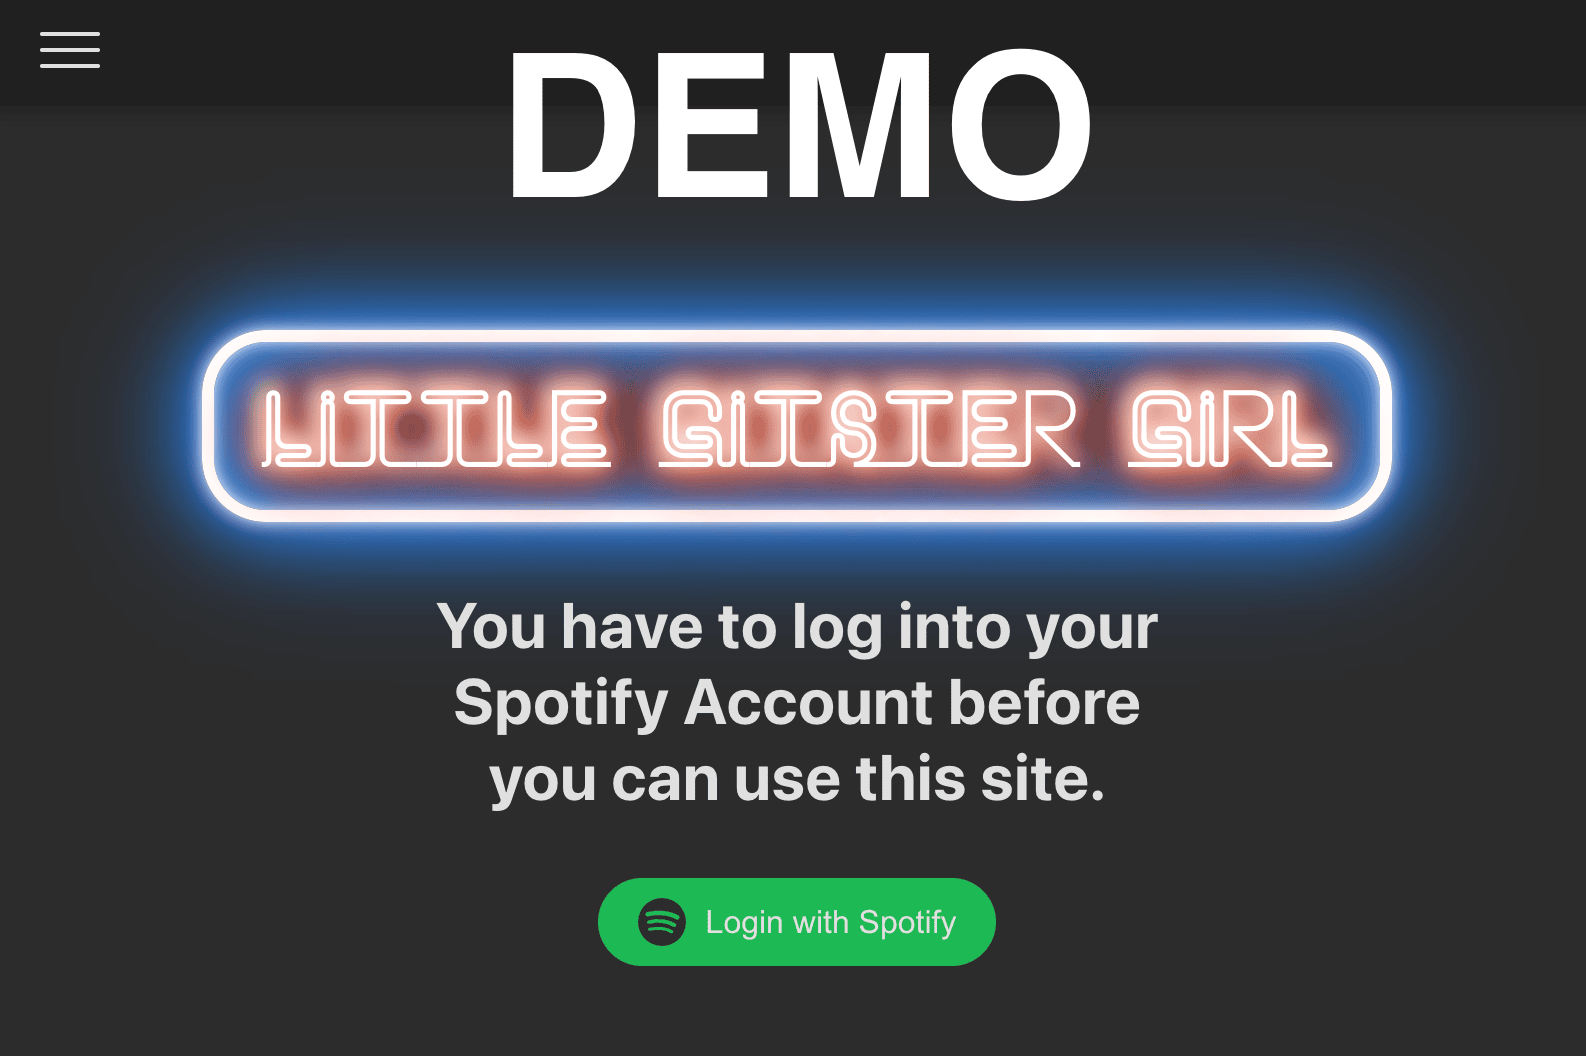
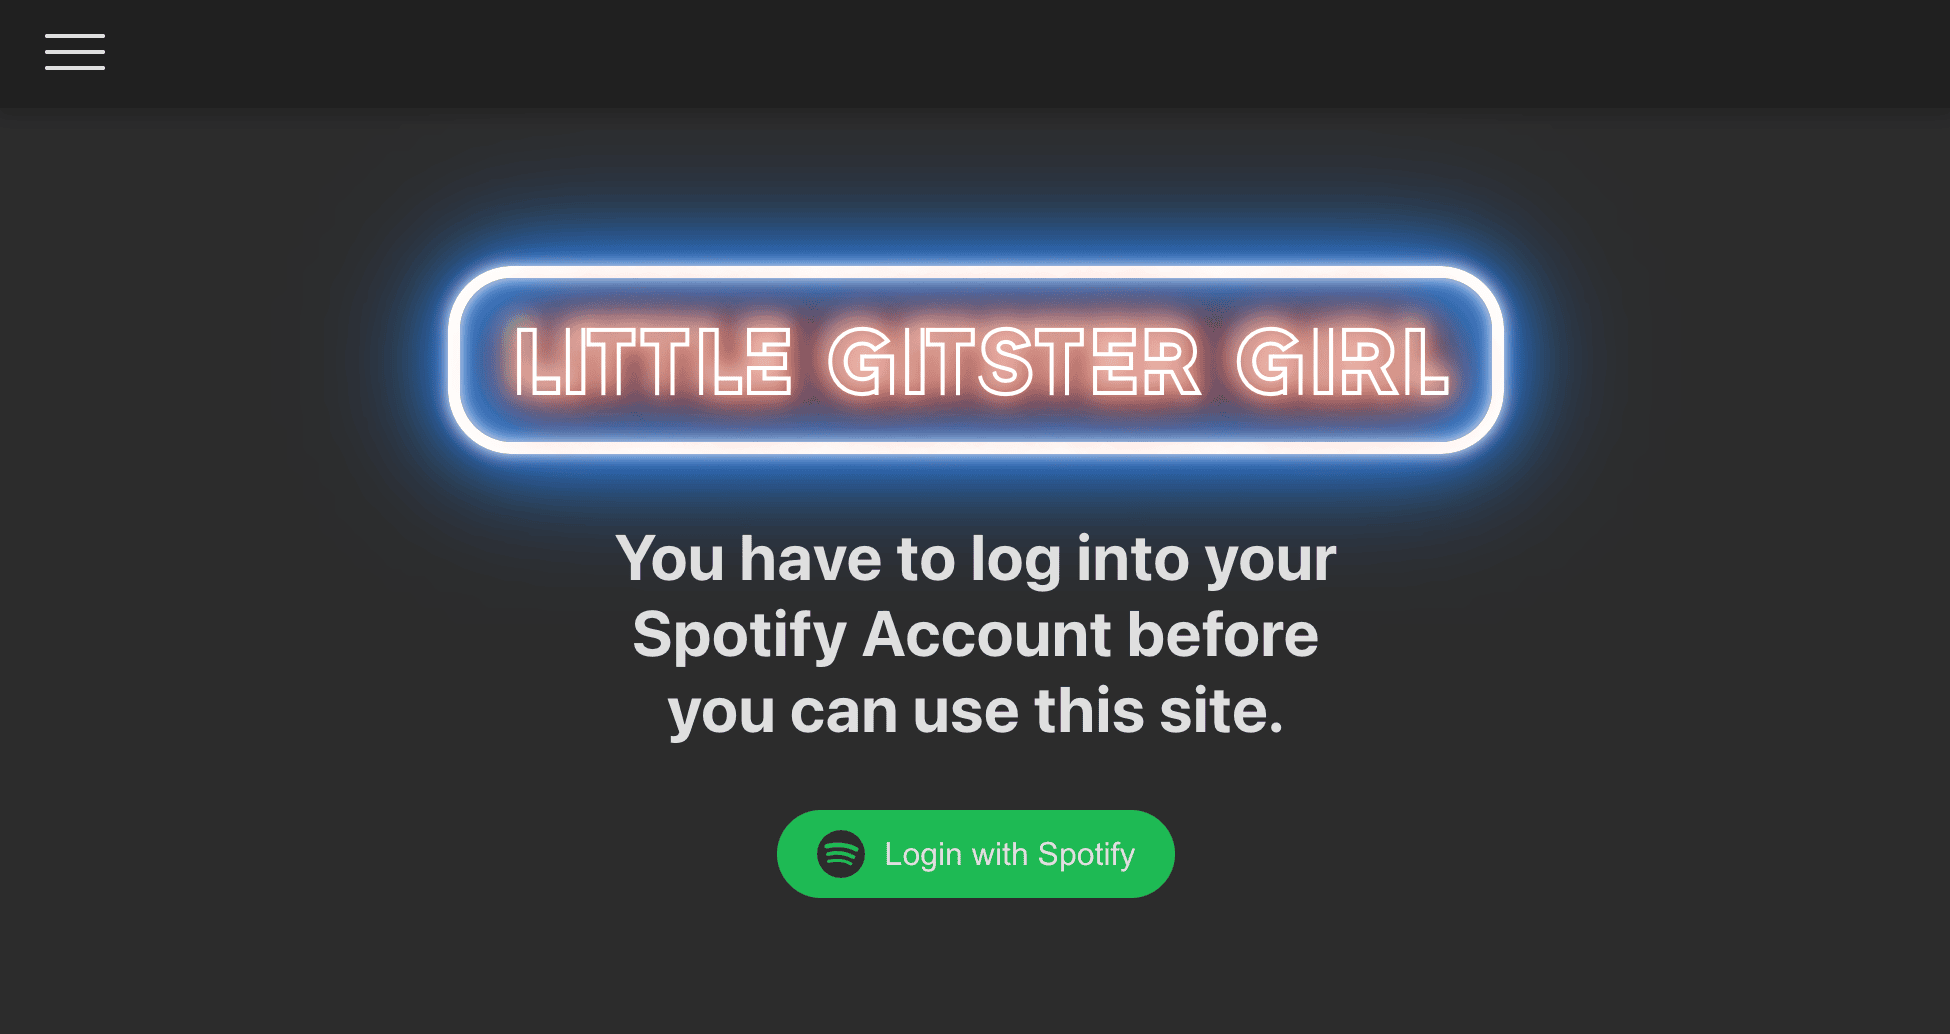
docs: update README with current project structure and fixes
- Update demo screenshot
- Fix broken link with double parentheses
- Update Node.js version requirement to v22 (matches .nvmrc)
- Update project structure to reflect current folders
- Add missing scripts (preview:https) and convert to table format
- Improve installation steps formatting and consistency

diff --git a/README.md b/README.md
@@ -6,7 +6,7 @@
 **Little Gitster Girl** is an engaging and interactive game designed for music lovers and friends who enjoy testing their knowledge of music release dates. Players compete to guess whether a song was released before or after previously played cards, creating a fun and challenging experience. Additionally, this app empowers users to generate personalized playing cards based on their Spotify playlists, enhancing gameplay and fostering music discovery.
 
 [![Screenshot Website](.github/docs/resources/images/demo_screenshot_main_page.png)](https://floriande.github.io/little-gitster-girl/)
-[Click image or here for demo]((https://floriande.github.io/little-gitster-girl/))
+[Click image or here for demo](https://floriande.github.io/little-gitster-girl/)
 
 ## Table of Contents
 - [Little Gitster Girl](#little-gitster-girl)
@@ -21,8 +21,8 @@
     - [Project Structure](#project-structure)
   - [Contributing](#contributing)
     - [Code Style](#code-style)
-   
-## Features 
+
+## Features
 
 -	🎵 **Interactive Gameplay**: A unique guessing game where players arrange songs based on their release dates, promoting a fun way to explore music history.
 -	🎤 **Spotify Integration**: Seamlessly connect to your Spotify account to access your playlists and track information. _**Spotify Premium Required**_. 
@@ -36,31 +36,32 @@
 To run this project locally, follow these steps.
 
 #### Prerequisites
-- **Node.js** (version 14 or above)
+- **Node.js** (version 22 or above recommended, see `.nvmrc`)
 - **npm** or **yarn** package manager
-- **Spotify Developer account** for API access (to get your `client_id`. This project uses the PKCE auth flow of Spotify, so you dont need the client_secret.)
-You also have to add the redirect URI for local development which would be `http://localhost:3000/little-gitster-girl`.
-Spotify tutorial for these steps: https://developer.spotify.com/documentation/web-api/concepts/apps 
+- **Spotify Developer account** for API access (to get your `client_id`. This project uses the PKCE auth flow of Spotify, so you don't need the `client_secret`).
+  You also have to add the redirect URI for local development which would be `http://localhost:3000/little-gitster-girl`.
+  Spotify tutorial for these steps: https://developer.spotify.com/documentation/web-api/concepts/apps
 
 #### Installation
 1. **Clone the repository**
-```bash
-git clone https://github.com/FlorianDe/little-gitster-girl.git
-cd little-gitster-girl
-```
-2.	Install dependencies
-```bash
-npm install
-# or
-yarn install
-```
+   ```bash
+   git clone https://github.com/FlorianDe/little-gitster-girl.git
+   cd little-gitster-girl
+   ```
 
-3.	Set up environment variables
-Copy or rename the .env.example file
-```bash
-cp .env.example .env.local
-```
-And change the YOUR_SPOTIFY_CLIENT_ID_HERE placeholder with your obtained `client_id`.
+2. **Install dependencies**
+   ```bash
+   npm install
+   # or
+   yarn install
+   ```
+
+3. **Set up environment variables**
+   Copy or rename the `.env.example` file:
+   ```bash
+   cp .env.example .env.local
+   ```
+   Then replace the `YOUR_SPOTIFY_CLIENT_ID_HERE` placeholder with your obtained `client_id`.
 
 #### Running the App
 ```bash
@@ -74,14 +75,17 @@ You can change the port and the base-name inside the vite.config.ts but be aware
 
 ### Available Scripts
 
-- npm run dev – Runs the app in development mode.
-- npm run dev:https – Runs the app in development mode with HTTPS.
-- npm test – Launches the test runner.
-- npm run build – Builds the app for production.
-- npm run preview - Serves the production build as preview.
-- npm run lint – Checks the code for linting errors.
-- npm run generate-certs – Generate the self signed certificates needed for serving the app with https locally.
-  
+| Script | Description |
+|--------|-------------|
+| `npm run dev` | Runs the app in development mode |
+| `npm run dev:https` | Runs the app in development mode with HTTPS |
+| `npm run build` | Builds the app for production |
+| `npm run preview` | Serves the production build as preview |
+| `npm run preview:https` | Serves the production build with HTTPS |
+| `npm test` | Launches the test runner (Vitest) |
+| `npm run lint` | Checks the code for linting errors |
+| `npm run generate-certs` | Generates self-signed certificates for local HTTPS |
+
 ### Project Structure
 ```bash
 little-gitster-girl/
@@ -90,26 +94,28 @@ little-gitster-girl/
 │   ├── auth/               # Spotify authentication logic
 │   ├── components/         # Reusable UI components
 │   ├── context/            # Context providers (e.g., Toast, SpotifyWebPlayer)
+│   ├── data/               # Configuration and app data
 │   ├── hooks/              # Custom hooks for reusable logic (e.g. useCameraPermission)
 │   ├── i18n/               # Translation specific context, provider, hooks, translations
+│   ├── paintings/          # Title image generation
 │   ├── routes/             # Page-level components
 │   ├── services/           # Pdf generation and spotify-related logic
-│   ├── utils/              # Utility functions
-│   └── config.ts           # Config file for global settings
+│   ├── types/              # TypeScript type definitions
+│   └── worker/             # Web workers (e.g., PDF generation)
 ├── .env                    # Environment variables
 └── README.md
 ```
 
 ## Contributing
 
-Please follow these steps:
+Contributions are welcome! Please follow these steps:
 
-1.	Fork the repository.
-2.	Create a branch: git checkout -b feature/your-feature-name.
-3.	Commit your changes: git commit -m 'Add new feature'.
-4.	Push to the branch: git push origin feature/your-feature-name.
-5.	Create a Pull Request.
+1. Fork the repository
+2. Create a branch: `git checkout -b feature/your-feature-name`
+3. Commit your changes: `git commit -m 'Add new feature'`
+4. Push to the branch: `git push origin feature/your-feature-name`
+5. Create a Pull Request
 
 ### Code Style
-- Use Prettier for consistent code formatting.
-- Use ESLint for linting, and ensure all lint issues are resolved.
+- Use **Prettier** for consistent code formatting
+- Use **ESLint** for linting, and ensure all lint issues are resolved
